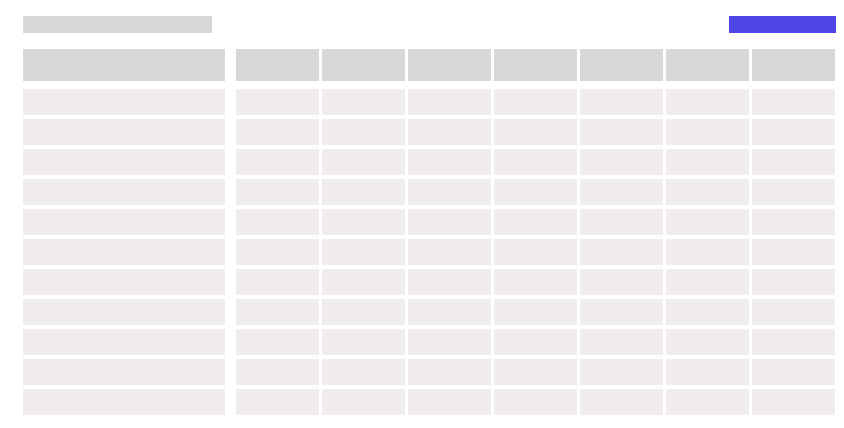
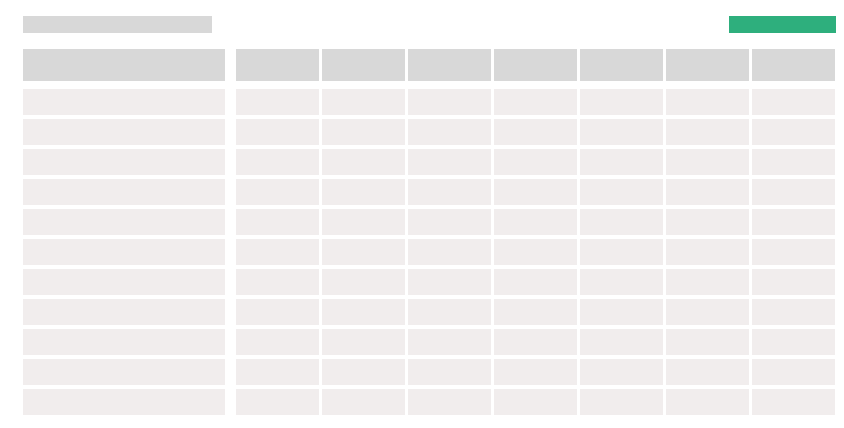
new content

Changed region(s): [[0.8626, 0.0304, 1.0, 0.0911]]

diff --git a/src/components/SecondaryFeatures.jsx b/src/components/SecondaryFeatures.jsx
@@ -17,7 +17,7 @@ const features = [
     summary:
       'Updating the inventory, keeping a history on users, locations and items.',
     description:
-      'Confidently remove stock items from specific locations. These items can be marked by the user with useful pre-set reasons and job numbers',
+      'Confidently remove stock items from specific locations. These items can be marked by the user with useful pre-set reasons and patient identifier numbers',
     image: screenshotInventory,
     icon: function InventoryIcon() {
       return (
@@ -70,7 +70,7 @@ const features = [
     name: 'Reporting',
     summary: 'Stay on top of things with always up-to-date reporting features.',
     description:
-      'Understanding your stock level means you can minimise waste, run more efficiently and be assured of competence',
+      'Understanding your stock level means you can minimise waste, operate more efficiently and be assured of compeliance',
     image: screenshotProfitLoss,
     icon: function ReportingIcon() {
       let id = useId()
@@ -85,8 +85,8 @@ const features = [
               y2="15.5"
               gradientUnits="userSpaceOnUse"
             >
-              <stop offset=".194" stopColor="#fff" />
-              <stop offset={1} stopColor="#6692F1" />
+              <stop offset=".194" stopColor="#C1F6ED" />
+              <stop offset={1} stopColor="#449342" />
             </linearGradient>
           </defs>
           <path
@@ -111,7 +111,7 @@ function Feature({ feature, isActive, className, ...props }) {
       <div
         className={clsx(
           'w-9 rounded-lg',
-          isActive ? 'bg-blue-600' : 'bg-slate-500'
+          isActive ? 'bg-salvify-primary' : 'bg-salvify-secondary'
         )}
       >
         <svg aria-hidden="true" className="h-9 w-9" fill="none">
@@ -120,8 +120,8 @@ function Feature({ feature, isActive, className, ...props }) {
       </div>
       <h3
         className={clsx(
-          'mt-6 text-sm font-medium',
-          isActive ? 'text-blue-600' : 'text-slate-600'
+          'mt-6 text-sm font-semibold',
+          isActive ? 'text-salvify-primary' : 'text-salvify-secondary'
         )}
       >
         {feature.name}

diff --git a/src/components/Header.jsx b/src/components/Header.jsx
@@ -80,8 +80,8 @@ function MobileNavigation() {
             className="absolute inset-x-0 top-full mt-4 flex origin-top flex-col rounded-2xl bg-white p-4 text-lg tracking-tight text-slate-900 shadow-xl ring-1 ring-slate-900/5"
           >
             <MobileNavLink href="#features">Features</MobileNavLink>
-            <MobileNavLink href="#testimonials">Testimonials</MobileNavLink>
-            <MobileNavLink href="#pricing">Pricing</MobileNavLink>
+            <MobileNavLink href="#about">About</MobileNavLink>
+            <MobileNavLink href="#benefits">Benefits</MobileNavLink>
             <hr className="m-2 border-slate-300/40" />
             <MobileNavLink href="/login">Sign in</MobileNavLink>
           </Popover.Panel>
@@ -102,15 +102,15 @@ export function Header() {
             </Link>
             <div className="hidden md:flex md:gap-x-6">
               <NavLink href="#features">Features</NavLink>
-              <NavLink href="#testimonials">Testimonials</NavLink>
-              <NavLink href="#pricing">Pricing</NavLink>
+              <NavLink href="#about">About</NavLink>
+              <NavLink href="#benefits">Benefits</NavLink>
             </div>
           </div>
           <div className="flex items-center gap-x-5 md:gap-x-8">
             <div className="hidden md:block">
               <NavLink href="/login">Sign in</NavLink>
             </div>
-            <Button href="/register" color="blue">
+            <Button href="/register" color="green">
               <span>
                 Request a demo <span className="hidden lg:inline">today</span>
               </span>

diff --git a/src/components/Hero.jsx b/src/components/Hero.jsx
@@ -12,19 +12,19 @@ import logoTuple from '@/images/logos/tuple.svg'
 export function Hero() {
   return (
     <Container className="pb-16 pt-20 text-center lg:pt-32">
-      <h1 className="mx-auto max-w-4xl font-display text-5xl font-medium tracking-tight text-slate-900 sm:text-7xl">
+      <h1 className="mx-auto max-w-4xl font-display text-5xl font-medium tracking-tight text-salvify-secondary sm:text-7xl">
         Medical Inventory{' '}
-        <span className="relative whitespace-nowrap text-blue-600">
+        <span className="relative whitespace-nowrap text-salvify-primary">
           <span className="relative">made simple</span>
         </span>{' '}
       </h1>
       <p className="mx-auto mt-6 max-w-2xl text-lg tracking-tight text-slate-700">
-				Elevate your assurance, compliance, and sustainability with Salvify, the future of medical inventory excellence!
+				Elevate your assurance, compliance, and patient safety with Salvify, the future of medical inventory excellence!
       </p>
       <div className="mt-10 flex justify-center gap-x-6">
-        <Button href="/#">Sign up</Button>
+        {/* <Button href="/#">Sign up</Button> */}
         <Button
-          href="https://www.youtube.com/watch?v=dQw4w9WgXcQ"
+          // href="https://www.youtube.com/watch?v=dQw4w9WgXcQ"
           variant="outline"
         >
           {/* <svg

diff --git a/src/components/Benefits.jsx b/src/components/Benefits.jsx
@@ -1,0 +1,32 @@
+
+import clsx from 'clsx'
+
+import { Button } from '@/components/Button'
+import { Container } from '@/components/Container'
+
+
+export function Benefits() {
+  return (
+    <section
+      id="benefits"
+      aria-label="Benefits"
+      className="bg-salvify-secondary py-20 sm:py-32"
+    >
+      <Container>
+        <div className="md:text-center">
+          <h2 className="font-display text-3xl tracking-tight text-white sm:text-4xl">
+            <span className="relative whitespace-nowrap">
+              <span className="relative">The benefits of Salvify</span>
+            </span>{' '}
+          </h2>
+          <p className="mt-4 text-lg text-slate-400">
+            It doesn’t matter what size your business is, our software will elevate your medical inventory system.
+          </p>
+        </div>
+        <div className="-mx-4 mt-16 grid max-w-2xl grid-cols-1 gap-y-10 sm:mx-auto lg:-mx-8 lg:max-w-none lg:grid-cols-3 xl:mx-0 xl:gap-x-8">
+          
+        </div>
+      </Container>
+    </section>
+  )
+}

diff --git a/src/components/About.jsx b/src/components/About.jsx
@@ -1,0 +1,32 @@
+
+import clsx from 'clsx'
+
+import { Button } from '@/components/Button'
+import { Container } from '@/components/Container'
+
+
+export function About() {
+  return (
+    <section
+      id="about"
+      aria-label="About"
+      className="bg-slate-50 py-20 sm:py-32"
+    >
+      <Container>
+        <div className="md:text-center">
+          <h2 className="font-display text-3xl tracking-tight text-salvify-secondary sm:text-4xl">
+            <span className="relative whitespace-nowrap">
+              <span className="relative">About Salvify</span>
+            </span>{' '}
+          </h2>
+          <p className="mt-4 text-lg text-salvify-secondary">
+            Lorum ipsum solar dolar...
+          </p>
+        </div>
+        <div className="-mx-4 mt-16 grid max-w-2xl grid-cols-1 gap-y-10 sm:mx-auto lg:-mx-8 lg:max-w-none lg:grid-cols-3 xl:mx-0 xl:gap-x-8">
+          
+        </div>
+      </Container>
+    </section>
+  )
+}

diff --git a/src/app/page.jsx b/src/app/page.jsx
@@ -3,10 +3,10 @@ import { Faqs } from '@/components/Faqs'
 import { Footer } from '@/components/Footer'
 import { Header } from '@/components/Header'
 import { Hero } from '@/components/Hero'
-import { Pricing } from '@/components/Pricing'
+import { Benefits } from '@/components/Benefits'
 import { PrimaryFeatures } from '@/components/PrimaryFeatures'
 import { SecondaryFeatures } from '@/components/SecondaryFeatures'
-import { Testimonials } from '@/components/Testimonials'
+import { About } from '@/components/About'
 
 export default function Home() {
   return (
@@ -17,8 +17,8 @@ export default function Home() {
         <PrimaryFeatures />
         <SecondaryFeatures />
         <CallToAction />
-        <Testimonials />
-        <Pricing />
+        <About />
+        <Benefits />
         <Faqs />
       </main>
       <Footer />

diff --git a/src/components/Button.jsx b/src/components/Button.jsx
@@ -13,6 +13,7 @@ const variantStyles = {
     slate:
       'bg-slate-900 text-white hover:bg-slate-700 hover:text-slate-100 active:bg-slate-800 active:text-slate-300 focus-visible:outline-slate-900',
     blue: 'bg-blue-600 text-white hover:text-slate-100 hover:bg-blue-500 active:bg-blue-800 active:text-blue-100 focus-visible:outline-blue-600',
+		green: 'bg-salvify-primary text-white hover:text-slate-100 hover:bg-salvify-primary/80 active:bg-salvify-primary/70 active:text-slate-100 focus-visible:outline-blue-600',
     white:
       'bg-white text-slate-900 hover:bg-blue-50 active:bg-blue-200 active:text-slate-600 focus-visible:outline-white',
   },

diff --git a/src/components/Footer.jsx b/src/components/Footer.jsx
@@ -13,8 +13,8 @@ export function Footer() {
           <nav className="mt-10 text-sm" aria-label="quick links">
             <div className="-my-1 flex justify-center gap-x-6">
               <NavLink href="#features">Features</NavLink>
-              <NavLink href="#testimonials">Testimonials</NavLink>
-              <NavLink href="#pricing">Pricing</NavLink>
+              <NavLink href="#about">About</NavLink>
+              <NavLink href="#benefits">Benefits</NavLink>
             </div>
           </nav>
         </div>

diff --git a/src/components/PrimaryFeatures.jsx b/src/components/PrimaryFeatures.jsx
@@ -61,7 +61,7 @@ export function PrimaryFeatures() {
     <section
       id="features"
       aria-label="Features for running your books"
-      className="relative overflow-hidden bg-blue-600 pb-28 pt-20 sm:py-32"
+      className="relative overflow-hidden bg-salvify-secondary pb-28 pt-20 sm:py-32"
     >
       <Image
         className="absolute left-1/2 top-1/2 max-w-none translate-x-[-44%] translate-y-[-42%]"

diff --git a/tailwind.config.js b/tailwind.config.js
@@ -26,7 +26,11 @@ module.exports = {
       },
 			colors: ({ colors }) => ({
         gray: colors.neutral,
-				dmDark: '#3A4443',
+				"salvify-primary": '#2EAF7D',
+				"salvify-secondary": '#02353C',
+				"salvify-accent-green": '#449342',
+				"salvify-accent-aqua": '#3FD0C9',
+				"salvify-accent-light": '#C1F6ED',
       }),
       maxWidth: {
         '2xl': '40rem',

diff --git a/src/components/CallToAction.jsx b/src/components/CallToAction.jsx
@@ -8,7 +8,7 @@ export function CallToAction() {
   return (
     <section
       id="get-started-today"
-      className="relative overflow-hidden bg-blue-600 py-32"
+      className="relative overflow-hidden bg-salvify-secondary py-32"
     >
       <Image
         className="absolute left-1/2 top-1/2 max-w-none -translate-x-1/2 -translate-y-1/2"
